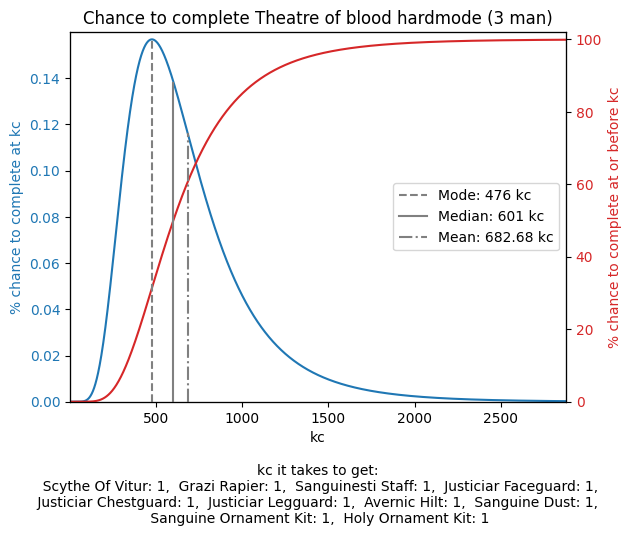
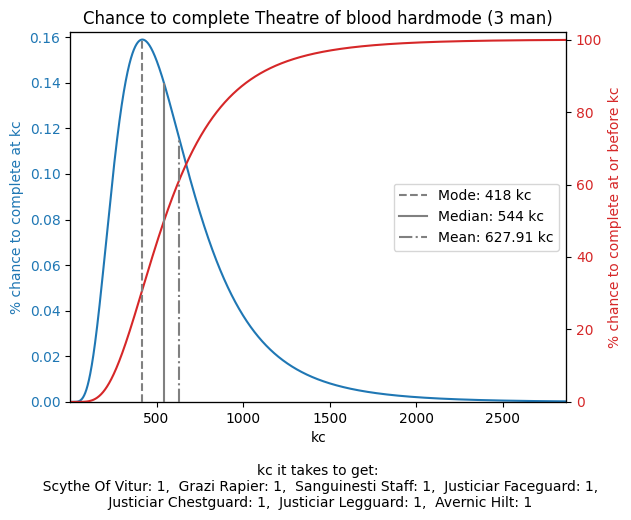
remove dupe name

diff --git a/bosses.py b/bosses.py
@@ -653,7 +653,6 @@ def optionalBosses():
     zalcano3tool = zalcano(loot_amount = {"crystal tool seed":3, "zalcano shard":0}, name="Zalcano 3 tool seeds")
 
     hardMode3man = theatre_of_blood_hard_mode(loot_amount = {"scythe of vitur":1, "grazi rapier":1,"sanguinesti staff":1, "justiciar faceguard":1, "justiciar chestguard":1, "justiciar legguard":1, "avernic hilt":1, "Sanguine dust":0, "Sanguine ornament kit":0,"holy ornament kit":0}, name="Theatre of blood hardmode (3 man)", teamsize=3)
-    hardModeKits = theatre_of_blood_hard_mode(loot_amount = {"scythe of vitur":1, "grazi rapier":1,"sanguinesti staff":1, "justiciar faceguard":1, "justiciar chestguard":1, "justiciar legguard":1, "avernic hilt":1, "Sanguine dust":1, "Sanguine ornament kit":1,"holy ornament kit":1}, name="Theatre of blood hardmode (3 man)", teamsize=3)
     hardModeJustKits = theatre_of_blood_hard_mode(loot_amount = {"scythe of vitur":0, "grazi rapier":0,"sanguinesti staff":0, "justiciar faceguard":0, "justiciar chestguard":0, "justiciar legguard":0, "avernic hilt":0, "Sanguine dust":1, "Sanguine ornament kit":1,"holy ornament kit":1}, name="Theatre of blood hardmode kits", teamsize=3)
     hardMode3holy = theatre_of_blood_hard_mode(loot_amount = {"scythe of vitur":0, "grazi rapier":0,"sanguinesti staff":0, "justiciar faceguard":0, "justiciar chestguard":0, "justiciar legguard":0, "avernic hilt":0, "Sanguine dust":1, "Sanguine ornament kit":1,"holy ornament kit":3}, name="Theatre of blood hardmode 3 holy kits", teamsize=3)
 
@@ -692,7 +691,6 @@ def optionalBosses():
         zalcano3tool,
         ce,
         hardMode3man,
-        hardModeKits,
         hardModeJustKits,
         hardMode3holy
     ]
